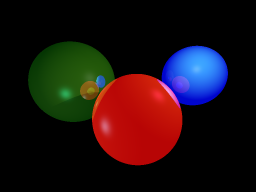
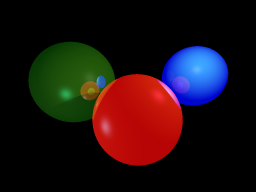
Centered the ssaa grids

diff --git a/src/lib.rs b/src/lib.rs
@@ -1,3 +1,4 @@
+use rayon;
 use core::f32;
 use image::{Rgb, RgbImage};
 use std::{
@@ -242,25 +243,17 @@ pub enum SamplePattern {
 impl SamplePattern {
     pub fn get_offsets(&self) -> Vec<(f32, f32)> {
         match self {
-            SamplePattern::Four => vec![(0.0, 0.0), (0.0, 0.5), (0.5, 0.0), (0.5, 0.5)],
+            SamplePattern::Four => vec![(-0.25, -0.25), (0.25, -0.25),
+            (-0.25, 0.25), (0.25, 0.25),
+            ],
             SamplePattern::Six => vec![
-                (0.0, 0.0),
-                (0.0, 0.33),
-                (0.0, 0.66),
-                (0.33, 0.0),
-                (0.33, 0.33),
-                (0.33, 0.66),
+                (-0.33, -0.33), (0.0, -0.33), (0.33, -0.33),
+                (-0.33, 0.0), (0.0, 0.0), (0.33, 0.0),
             ],
             SamplePattern::Nine => vec![
-                (0.0, 0.0),
-                (0.0, 0.33),
-                (0.0, 0.66),
-                (0.33, 0.0),
-                (0.33, 0.33),
-                (0.33, 0.66),
-                (0.66, 0.0),
-                (0.66, 0.33),
-                (0.66, 0.66),
+                (-0.33, -0.33), (0.0, -0.33), (0.33, -0.33),
+                (-0.33, 0.0), (0.0, 0.0), (0.33, 0.0),
+                (-0.33, 0.33), (0.0, 0.33), (0.33, 0.33),
             ],
         }
     }

diff --git a/src/main.rs b/src/main.rs
@@ -63,8 +63,8 @@ fn main() {
             x4: Vector(-1.0, -0.75, 0.0),
         },
         camera: Vector(0.0, 0.0, -1.0),
-        width: 256,  //256
-        height: 192, //192
+        width: 256,  //256 1920
+        height: 192, //192 192
         ambient_light: Color(0.1, 0.1, 0.1),
         lights: vec![light1, light2],
         spheres: vec![sphere1, sphere2, sphere3],
